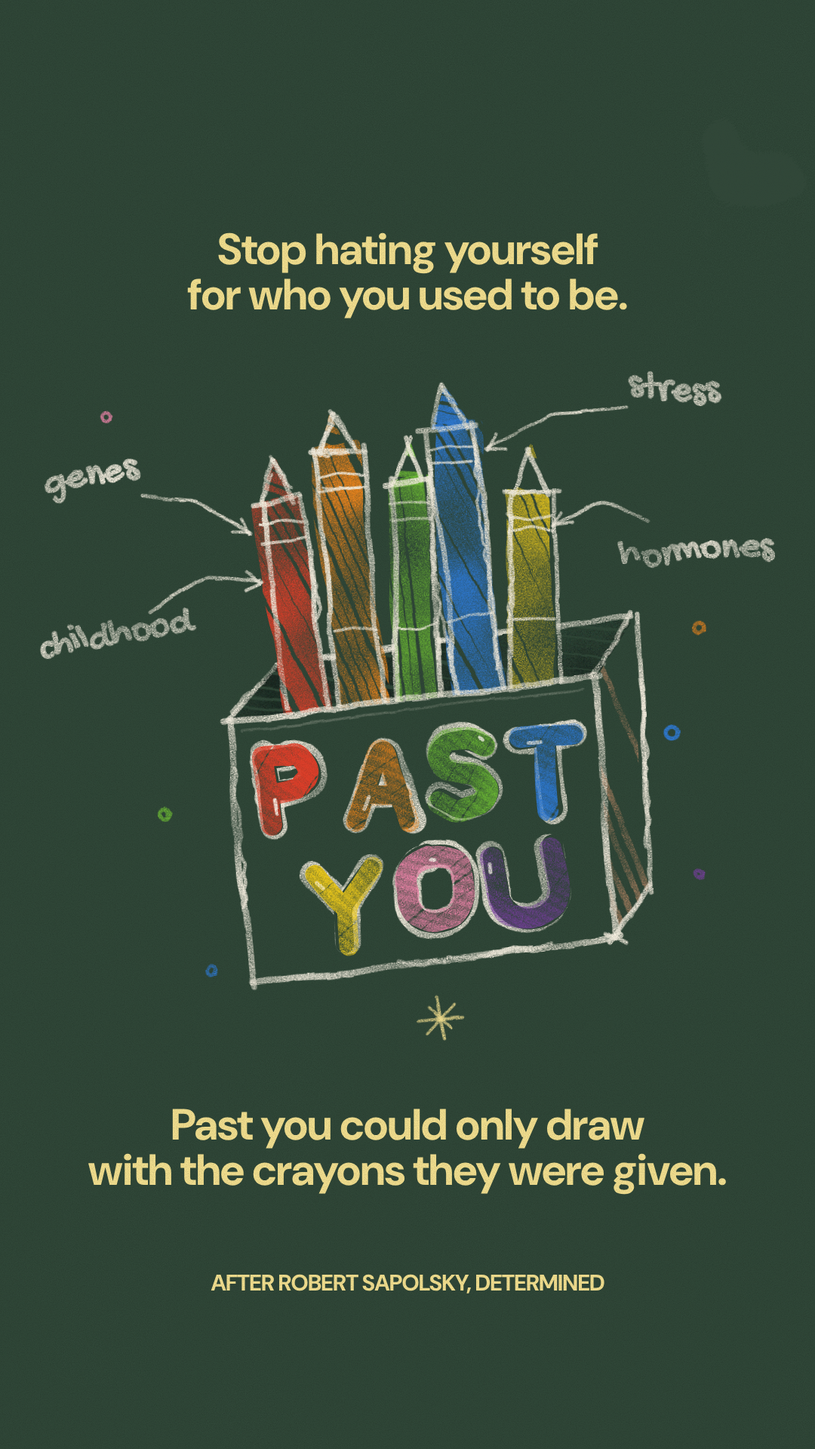
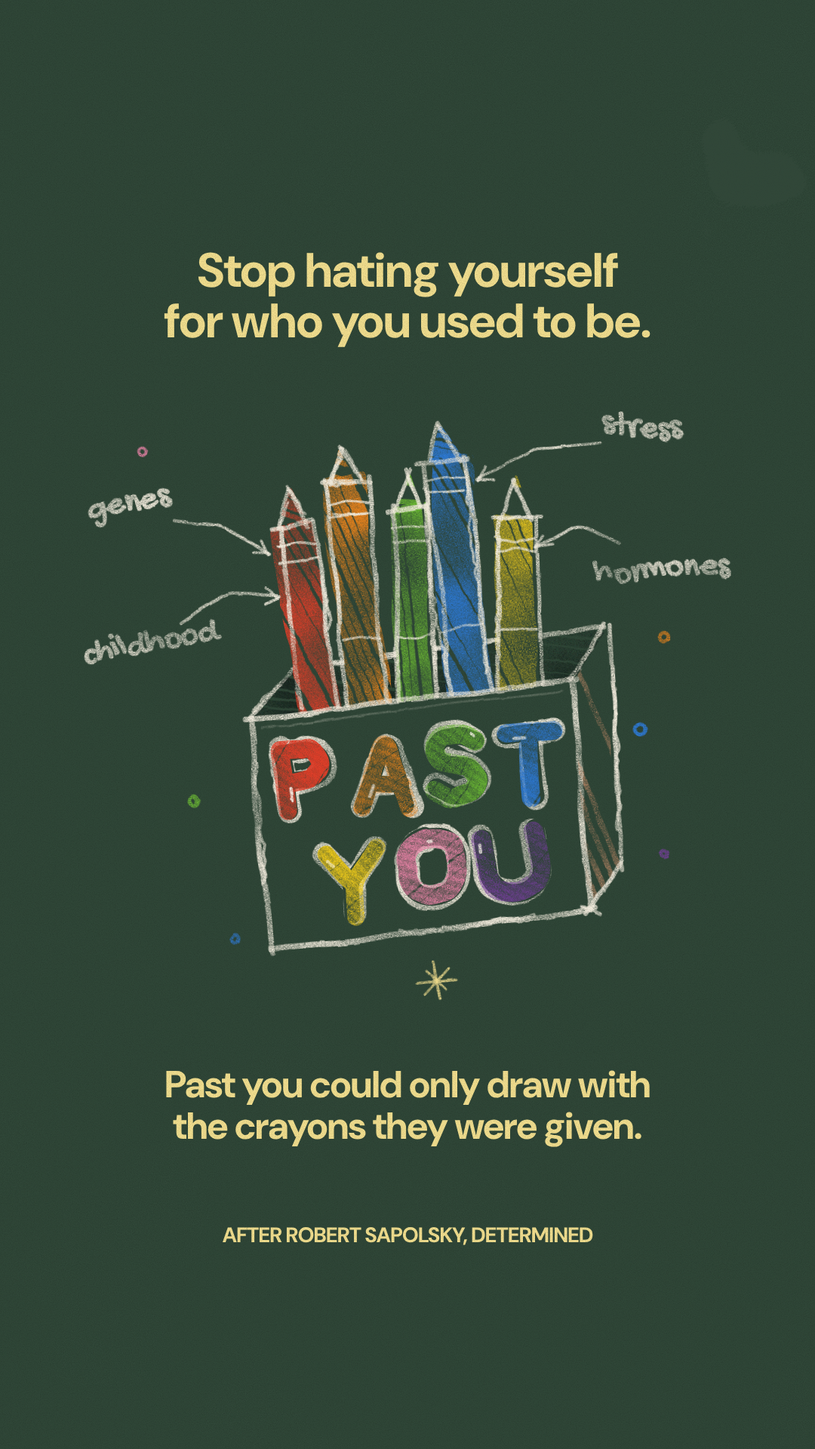
Past-you story: rebalance composition
Headline larger than the explanation, matching line widths, illustration
scaled to the text column with even gaps above and below.

Claude-Session: https://claude.ai/code/session_018jP4U1xgLMT91eSVQ4CkUE

diff --git a/story/past-you/variants/butter.html b/story/past-you/variants/butter.html
@@ -11,10 +11,11 @@
   .story { position: relative; width: 1080px; height: 1920px; overflow: hidden; background: #f0d25e; color: #4a2357;
            font-family: "DM Sans", sans-serif; font-weight: 700; letter-spacing: -0.045em; text-align: center; }
   .story svg { position: absolute; inset: 0; }
-  .line { position: absolute; left: 0; right: 0; font-size: 58px; line-height: 1.04; }
-  .top { top: 300px; }
-  .bottom { top: 1460px; }
-  .label { position: absolute; left: 0; right: 0; top: 1680px; font-size: 30px; letter-spacing: -0.04em; text-transform: uppercase; }
+  /* composition: one centred column, ~112px side margins, even gaps */
+  .line { position: absolute; left: 0; right: 0; }
+  .top { top: 326px; font-size: 64px; line-height: 1.04; }                 /* the hook: largest */
+  .bottom { top: 1410px; font-size: 50px; line-height: 1.1; }             /* the explanation */
+  .label { position: absolute; left: 0; right: 0; top: 1618px; font-size: 28px; letter-spacing: -0.04em; text-transform: uppercase; }
 </style>
 </head>
 <body>
@@ -54,6 +55,7 @@
         <feMerge><feMergeNode in="blotSoft"/><feMergeNode in="darkSpecks"/></feMerge>
       </filter>
     </defs>
+    <g transform="translate(540 934) scale(0.88) translate(-540 -934)">
     <g transform="rotate(-5 545 940)">
 <clipPath id="butter-c0"><path d="M300.5,933.3 Q300.5,933.3 308.2,933.1 Q315.9,932.9 323.9,932.7 Q332.0,932.5 338.6,932.2 Q345.3,931.9 353.1,931.4 Q360.8,931.0 367.7,930.8 Q374.6,930.5 382.6,929.2 Q390.5,927.9 398.0,927.8 Q405.4,927.6 412.4,927.1 Q419.5,926.7 427.3,925.5 Q435.1,924.2 443.0,923.0 Q450.9,921.8 459.7,921.7 Q468.6,921.6 476.4,920.7 Q484.1,919.9 492.3,920.2 Q500.4,920.6 509.1,921.3 Q517.7,922.0 525.9,922.5 Q534.0,923.0 543.1,923.5 Q552.1,924.0 561.0,924.9 Q570.0,925.9 577.9,926.1 Q585.9,926.2 593.5,926.0 Q601.2,925.8 608.8,926.4 Q616.5,927.0 625.4,926.6 Q634.4,926.3 642.6,925.8 Q650.8,925.4 660.1,925.8 Q669.5,926.1 678.2,926.6 Q686.9,927.1 694.0,927.0 Q701.1,927.0 709.7,927.5 Q718.2,928.1 727.3,928.1 Q736.3,928.1 744.4,927.6 Q752.5,927.0 760.8,927.0 Q769.1,927.0 776.1,926.9 Q783.1,926.8 790.0,927.3 Q796.8,927.8 801.6,922.3 Q806.5,916.9 810.8,911.3 Q815.2,905.7 819.2,898.4 Q823.3,891.0 827.8,882.3 Q832.4,873.7 837.2,866.2 Q841.9,858.6 846.3,850.6 Q850.6,842.5 843.2,843.0 Q835.8,843.4 827.2,843.1 Q818.7,842.9 810.6,842.8 Q802.6,842.7 794.4,842.5 Q786.2,842.4 777.8,843.2 Q769.4,844.1 760.2,844.5 Q751.0,844.8 743.1,845.2 Q735.2,845.6 726.8,846.6 Q718.3,847.6 710.7,847.9 Q703.0,848.2 694.9,849.8 Q686.8,851.5 680.6,851.7 Q674.3,852.0 667.1,853.0 Q659.9,854.0 650.8,853.7 Q641.8,853.5 634.1,853.6 Q626.4,853.6 619.2,853.6 Q612.0,853.6 605.3,852.7 Q598.6,851.8 590.3,852.0 Q582.0,852.3 575.4,851.4 Q568.9,850.6 560.5,850.5 Q552.2,850.5 543.8,851.6 Q535.5,852.8 526.4,854.6 Q517.3,856.4 509.5,856.4 Q501.7,856.5 494.1,857.4 Q486.4,858.3 477.0,858.7 Q467.5,859.0 459.3,859.5 Q451.1,860.0 444.2,860.7 Q437.3,861.4 429.9,861.9 Q422.6,862.5 414.7,862.2 Q406.7,862.0 399.3,863.1 Q391.9,864.2 383.6,864.3 Q375.3,864.5 375.3,864.5 L375.3,864.5Z"/></clipPath>
 <g clip-path="url(#butter-c0)"><path d="M340.2,527.7 L960.8,663.6 L949.2,667.7 L335.2,537.3 L319.8,542.1 L935.1,674.8 L918.9,683.9 L361.6,564.8 L323.7,558.7 L909.8,690.9 L951.3,711.7 L343.0,577.0 L356.6,587.5 L941.9,718.8 L935.4,724.7 L344.1,600.4 L302.3,596.6 L948.9,732.9 L921.1,737.7 L292.9,602.3 L311.7,617.4 L895.7,747.1 L915.0,757.4 L308.8,630.6 L291.7,638.6 L925.5,771.8 L921.3,787.7 L335.0,656.8 L338.3,670.7 L889.4,786.6 L934.4,800.2 L288.2,668.4 L296.2,672.6 L926.1,812.4 L934.2,844.9 L300.0,711.3 L313.9,724.6 L906.6,851.4 L875.7,862.9 L308.1,736.2 L306.2,748.0 L868.6,876.0 L876.9,878.9 L294.3,759.2 L268.1,766.6 L909.5,899.1 L866.8,900.6 L301.0,783.8 L296.9,787.5 L915.2,925.9 L865.7,919.2 L269.3,795.5 L299.5,812.7 L886.5,935.6 L903.3,958.1 L263.0,816.4 L291.4,832.9 L878.6,957.3 L853.2,966.2 L276.9,838.8 L297.5,852.6 L878.2,976.9 L846.0,986.9 L243.4,855.5 L292.7,874.8 L857.2,1000.3 L886.5,1014.1 L269.9,884.7 L278.8,900.2 L882.4,1030.2 L881.7,1041.8 L282.2,914.9 L236.5,914.5 L845.4,1045.1 L847.0,1084.4 L266.6,964.6 L227.5,965.0 L851.1,1102.4 L868.2,1108.6 L273.8,981.6 L237.1,985.8 L878.9,1121.5 L860.5,1129.6 L228.1,997.5 L262.8,1017.0 L828.3,1131.5 L845.3,1158.7 L228.4,1021.6 L254.5,1036.9 L862.5,1167.3 L828.3,1188.8 L207.9,1055.9 L199.2,1072.0 L836.2,1207.3 L801.5,1204.9 L234.9,1087.6 L196.3,1083.0 L818.4,1218.4 L803.3,1226.9 L232.7,1105.5 L229.9,1111.3 L816.5,1239.1 L839.7,1253.4 L237.7,1125.7" fill="none" stroke="#3b2a55" stroke-width="10" stroke-linejoin="round" opacity="0.92" filter="url(#wax)"/></g>
@@ -170,8 +172,9 @@
 <path d="M545.2,1322.7 Q545.4,1325.3 546.2,1333.9 Q546.9,1342.4 547.7,1351.2 Q548.5,1359.9 549.7,1368.7 Q550.8,1377.5 550.9,1377.9 L550.9,1378.2" fill="none" stroke="#2f7fd8" stroke-width="4.4" stroke-linecap="round" stroke-linejoin="round" opacity="1" filter="url(#crayon)"/>
 <path d="M568.1,1334.0 Q566.2,1335.8 560.3,1341.3 Q554.4,1346.8 548.5,1352.3 Q542.6,1357.8 536.5,1363.2 Q530.4,1368.6 529.5,1369.4 L528.5,1370.3" fill="none" stroke="#2f7fd8" stroke-width="3.6" stroke-linecap="round" stroke-linejoin="round" opacity="1" filter="url(#crayon)"/>
     </g>
+    </g>
   </svg>
-  <div class="line bottom">Past you could only draw<br>with the crayons they were given.</div>
+  <div class="line bottom">Past you could only draw with<br>the crayons they were given.</div>
   <div class="label">After Robert Sapolsky, Determined</div>
   <svg width="1080" height="1920" style="pointer-events:none" aria-hidden="true"><rect width="1080" height="1920" filter="url(#paper)"/></svg>
 </div>

diff --git a/story/past-you/variants/forest.html b/story/past-you/variants/forest.html
@@ -11,10 +11,11 @@
   .story { position: relative; width: 1080px; height: 1920px; overflow: hidden; background: #2f4637; color: #f1de8e;
            font-family: "DM Sans", sans-serif; font-weight: 700; letter-spacing: -0.045em; text-align: center; }
   .story svg { position: absolute; inset: 0; }
-  .line { position: absolute; left: 0; right: 0; font-size: 58px; line-height: 1.04; }
-  .top { top: 300px; }
-  .bottom { top: 1460px; }
-  .label { position: absolute; left: 0; right: 0; top: 1680px; font-size: 30px; letter-spacing: -0.04em; text-transform: uppercase; }
+  /* composition: one centred column, ~112px side margins, even gaps */
+  .line { position: absolute; left: 0; right: 0; }
+  .top { top: 326px; font-size: 64px; line-height: 1.04; }                 /* the hook: largest */
+  .bottom { top: 1410px; font-size: 50px; line-height: 1.1; }             /* the explanation */
+  .label { position: absolute; left: 0; right: 0; top: 1618px; font-size: 28px; letter-spacing: -0.04em; text-transform: uppercase; }
 </style>
 </head>
 <body>
@@ -54,6 +55,7 @@
         <feMerge><feMergeNode in="blotSoft"/><feMergeNode in="darkSpecks"/></feMerge>
       </filter>
     </defs>
+    <g transform="translate(540 934) scale(0.88) translate(-540 -934)">
     <g transform="rotate(-5 545 940)">
 <clipPath id="forest-c0"><path d="M300.5,933.3 Q300.5,933.3 308.2,933.1 Q315.9,932.9 323.9,932.7 Q332.0,932.5 338.6,932.2 Q345.3,931.9 353.1,931.4 Q360.8,931.0 367.7,930.8 Q374.6,930.5 382.6,929.2 Q390.5,927.9 398.0,927.8 Q405.4,927.6 412.4,927.1 Q419.5,926.7 427.3,925.5 Q435.1,924.2 443.0,923.0 Q450.9,921.8 459.7,921.7 Q468.6,921.6 476.4,920.7 Q484.1,919.9 492.3,920.2 Q500.4,920.6 509.1,921.3 Q517.7,922.0 525.9,922.5 Q534.0,923.0 543.1,923.5 Q552.1,924.0 561.0,924.9 Q570.0,925.9 577.9,926.1 Q585.9,926.2 593.5,926.0 Q601.2,925.8 608.8,926.4 Q616.5,927.0 625.4,926.6 Q634.4,926.3 642.6,925.8 Q650.8,925.4 660.1,925.8 Q669.5,926.1 678.2,926.6 Q686.9,927.1 694.0,927.0 Q701.1,927.0 709.7,927.5 Q718.2,928.1 727.3,928.1 Q736.3,928.1 744.4,927.6 Q752.5,927.0 760.8,927.0 Q769.1,927.0 776.1,926.9 Q783.1,926.8 790.0,927.3 Q796.8,927.8 801.6,922.3 Q806.5,916.9 810.8,911.3 Q815.2,905.7 819.2,898.4 Q823.3,891.0 827.8,882.3 Q832.4,873.7 837.2,866.2 Q841.9,858.6 846.3,850.6 Q850.6,842.5 843.2,843.0 Q835.8,843.4 827.2,843.1 Q818.7,842.9 810.6,842.8 Q802.6,842.7 794.4,842.5 Q786.2,842.4 777.8,843.2 Q769.4,844.1 760.2,844.5 Q751.0,844.8 743.1,845.2 Q735.2,845.6 726.8,846.6 Q718.3,847.6 710.7,847.9 Q703.0,848.2 694.9,849.8 Q686.8,851.5 680.6,851.7 Q674.3,852.0 667.1,853.0 Q659.9,854.0 650.8,853.7 Q641.8,853.5 634.1,853.6 Q626.4,853.6 619.2,853.6 Q612.0,853.6 605.3,852.7 Q598.6,851.8 590.3,852.0 Q582.0,852.3 575.4,851.4 Q568.9,850.6 560.5,850.5 Q552.2,850.5 543.8,851.6 Q535.5,852.8 526.4,854.6 Q517.3,856.4 509.5,856.4 Q501.7,856.5 494.1,857.4 Q486.4,858.3 477.0,858.7 Q467.5,859.0 459.3,859.5 Q451.1,860.0 444.2,860.7 Q437.3,861.4 429.9,861.9 Q422.6,862.5 414.7,862.2 Q406.7,862.0 399.3,863.1 Q391.9,864.2 383.6,864.3 Q375.3,864.5 375.3,864.5 L375.3,864.5Z"/></clipPath>
 <g clip-path="url(#forest-c0)"><path d="M340.2,527.7 L960.8,663.6 L949.2,667.7 L335.2,537.3 L319.8,542.1 L935.1,674.8 L918.9,683.9 L361.6,564.8 L323.7,558.7 L909.8,690.9 L951.3,711.7 L343.0,577.0 L356.6,587.5 L941.9,718.8 L935.4,724.7 L344.1,600.4 L302.3,596.6 L948.9,732.9 L921.1,737.7 L292.9,602.3 L311.7,617.4 L895.7,747.1 L915.0,757.4 L308.8,630.6 L291.7,638.6 L925.5,771.8 L921.3,787.7 L335.0,656.8 L338.3,670.7 L889.4,786.6 L934.4,800.2 L288.2,668.4 L296.2,672.6 L926.1,812.4 L934.2,844.9 L300.0,711.3 L313.9,724.6 L906.6,851.4 L875.7,862.9 L308.1,736.2 L306.2,748.0 L868.6,876.0 L876.9,878.9 L294.3,759.2 L268.1,766.6 L909.5,899.1 L866.8,900.6 L301.0,783.8 L296.9,787.5 L915.2,925.9 L865.7,919.2 L269.3,795.5 L299.5,812.7 L886.5,935.6 L903.3,958.1 L263.0,816.4 L291.4,832.9 L878.6,957.3 L853.2,966.2 L276.9,838.8 L297.5,852.6 L878.2,976.9 L846.0,986.9 L243.4,855.5 L292.7,874.8 L857.2,1000.3 L886.5,1014.1 L269.9,884.7 L278.8,900.2 L882.4,1030.2 L881.7,1041.8 L282.2,914.9 L236.5,914.5 L845.4,1045.1 L847.0,1084.4 L266.6,964.6 L227.5,965.0 L851.1,1102.4 L868.2,1108.6 L273.8,981.6 L237.1,985.8 L878.9,1121.5 L860.5,1129.6 L228.1,997.5 L262.8,1017.0 L828.3,1131.5 L845.3,1158.7 L228.4,1021.6 L254.5,1036.9 L862.5,1167.3 L828.3,1188.8 L207.9,1055.9 L199.2,1072.0 L836.2,1207.3 L801.5,1204.9 L234.9,1087.6 L196.3,1083.0 L818.4,1218.4 L803.3,1226.9 L232.7,1105.5 L229.9,1111.3 L816.5,1239.1 L839.7,1253.4 L237.7,1125.7" fill="none" stroke="#16241b" stroke-width="10" stroke-linejoin="round" opacity="0.92" filter="url(#wax)"/></g>
@@ -170,8 +172,9 @@
 <path d="M545.2,1322.7 Q545.4,1325.3 546.2,1333.9 Q546.9,1342.4 547.7,1351.2 Q548.5,1359.9 549.7,1368.7 Q550.8,1377.5 550.9,1377.9 L550.9,1378.2" fill="none" stroke="#f1de8e" stroke-width="4.4" stroke-linecap="round" stroke-linejoin="round" opacity="1" filter="url(#crayon)"/>
 <path d="M568.1,1334.0 Q566.2,1335.8 560.3,1341.3 Q554.4,1346.8 548.5,1352.3 Q542.6,1357.8 536.5,1363.2 Q530.4,1368.6 529.5,1369.4 L528.5,1370.3" fill="none" stroke="#f1de8e" stroke-width="3.6" stroke-linecap="round" stroke-linejoin="round" opacity="1" filter="url(#crayon)"/>
     </g>
+    </g>
   </svg>
-  <div class="line bottom">Past you could only draw<br>with the crayons they were given.</div>
+  <div class="line bottom">Past you could only draw with<br>the crayons they were given.</div>
   <div class="label">After Robert Sapolsky, Determined</div>
   <svg width="1080" height="1920" style="pointer-events:none" aria-hidden="true"><rect width="1080" height="1920" filter="url(#paper)"/></svg>
 </div>

diff --git a/story/past-you/variants/tomato.html b/story/past-you/variants/tomato.html
@@ -11,10 +11,11 @@
   .story { position: relative; width: 1080px; height: 1920px; overflow: hidden; background: #d9533a; color: #ffe6c6;
            font-family: "DM Sans", sans-serif; font-weight: 700; letter-spacing: -0.045em; text-align: center; }
   .story svg { position: absolute; inset: 0; }
-  .line { position: absolute; left: 0; right: 0; font-size: 58px; line-height: 1.04; }
-  .top { top: 300px; }
-  .bottom { top: 1460px; }
-  .label { position: absolute; left: 0; right: 0; top: 1680px; font-size: 30px; letter-spacing: -0.04em; text-transform: uppercase; }
+  /* composition: one centred column, ~112px side margins, even gaps */
+  .line { position: absolute; left: 0; right: 0; }
+  .top { top: 326px; font-size: 64px; line-height: 1.04; }                 /* the hook: largest */
+  .bottom { top: 1410px; font-size: 50px; line-height: 1.1; }             /* the explanation */
+  .label { position: absolute; left: 0; right: 0; top: 1618px; font-size: 28px; letter-spacing: -0.04em; text-transform: uppercase; }
 </style>
 </head>
 <body>
@@ -54,6 +55,7 @@
         <feMerge><feMergeNode in="blotSoft"/><feMergeNode in="darkSpecks"/></feMerge>
       </filter>
     </defs>
+    <g transform="translate(540 934) scale(0.88) translate(-540 -934)">
     <g transform="rotate(-5 545 940)">
 <clipPath id="tomato-c0"><path d="M300.5,933.3 Q300.5,933.3 308.2,933.1 Q315.9,932.9 323.9,932.7 Q332.0,932.5 338.6,932.2 Q345.3,931.9 353.1,931.4 Q360.8,931.0 367.7,930.8 Q374.6,930.5 382.6,929.2 Q390.5,927.9 398.0,927.8 Q405.4,927.6 412.4,927.1 Q419.5,926.7 427.3,925.5 Q435.1,924.2 443.0,923.0 Q450.9,921.8 459.7,921.7 Q468.6,921.6 476.4,920.7 Q484.1,919.9 492.3,920.2 Q500.4,920.6 509.1,921.3 Q517.7,922.0 525.9,922.5 Q534.0,923.0 543.1,923.5 Q552.1,924.0 561.0,924.9 Q570.0,925.9 577.9,926.1 Q585.9,926.2 593.5,926.0 Q601.2,925.8 608.8,926.4 Q616.5,927.0 625.4,926.6 Q634.4,926.3 642.6,925.8 Q650.8,925.4 660.1,925.8 Q669.5,926.1 678.2,926.6 Q686.9,927.1 694.0,927.0 Q701.1,927.0 709.7,927.5 Q718.2,928.1 727.3,928.1 Q736.3,928.1 744.4,927.6 Q752.5,927.0 760.8,927.0 Q769.1,927.0 776.1,926.9 Q783.1,926.8 790.0,927.3 Q796.8,927.8 801.6,922.3 Q806.5,916.9 810.8,911.3 Q815.2,905.7 819.2,898.4 Q823.3,891.0 827.8,882.3 Q832.4,873.7 837.2,866.2 Q841.9,858.6 846.3,850.6 Q850.6,842.5 843.2,843.0 Q835.8,843.4 827.2,843.1 Q818.7,842.9 810.6,842.8 Q802.6,842.7 794.4,842.5 Q786.2,842.4 777.8,843.2 Q769.4,844.1 760.2,844.5 Q751.0,844.8 743.1,845.2 Q735.2,845.6 726.8,846.6 Q718.3,847.6 710.7,847.9 Q703.0,848.2 694.9,849.8 Q686.8,851.5 680.6,851.7 Q674.3,852.0 667.1,853.0 Q659.9,854.0 650.8,853.7 Q641.8,853.5 634.1,853.6 Q626.4,853.6 619.2,853.6 Q612.0,853.6 605.3,852.7 Q598.6,851.8 590.3,852.0 Q582.0,852.3 575.4,851.4 Q568.9,850.6 560.5,850.5 Q552.2,850.5 543.8,851.6 Q535.5,852.8 526.4,854.6 Q517.3,856.4 509.5,856.4 Q501.7,856.5 494.1,857.4 Q486.4,858.3 477.0,858.7 Q467.5,859.0 459.3,859.5 Q451.1,860.0 444.2,860.7 Q437.3,861.4 429.9,861.9 Q422.6,862.5 414.7,862.2 Q406.7,862.0 399.3,863.1 Q391.9,864.2 383.6,864.3 Q375.3,864.5 375.3,864.5 L375.3,864.5Z"/></clipPath>
 <g clip-path="url(#tomato-c0)"><path d="M340.2,527.7 L960.8,663.6 L949.2,667.7 L335.2,537.3 L319.8,542.1 L935.1,674.8 L918.9,683.9 L361.6,564.8 L323.7,558.7 L909.8,690.9 L951.3,711.7 L343.0,577.0 L356.6,587.5 L941.9,718.8 L935.4,724.7 L344.1,600.4 L302.3,596.6 L948.9,732.9 L921.1,737.7 L292.9,602.3 L311.7,617.4 L895.7,747.1 L915.0,757.4 L308.8,630.6 L291.7,638.6 L925.5,771.8 L921.3,787.7 L335.0,656.8 L338.3,670.7 L889.4,786.6 L934.4,800.2 L288.2,668.4 L296.2,672.6 L926.1,812.4 L934.2,844.9 L300.0,711.3 L313.9,724.6 L906.6,851.4 L875.7,862.9 L308.1,736.2 L306.2,748.0 L868.6,876.0 L876.9,878.9 L294.3,759.2 L268.1,766.6 L909.5,899.1 L866.8,900.6 L301.0,783.8 L296.9,787.5 L915.2,925.9 L865.7,919.2 L269.3,795.5 L299.5,812.7 L886.5,935.6 L903.3,958.1 L263.0,816.4 L291.4,832.9 L878.6,957.3 L853.2,966.2 L276.9,838.8 L297.5,852.6 L878.2,976.9 L846.0,986.9 L243.4,855.5 L292.7,874.8 L857.2,1000.3 L886.5,1014.1 L269.9,884.7 L278.8,900.2 L882.4,1030.2 L881.7,1041.8 L282.2,914.9 L236.5,914.5 L845.4,1045.1 L847.0,1084.4 L266.6,964.6 L227.5,965.0 L851.1,1102.4 L868.2,1108.6 L273.8,981.6 L237.1,985.8 L878.9,1121.5 L860.5,1129.6 L228.1,997.5 L262.8,1017.0 L828.3,1131.5 L845.3,1158.7 L228.4,1021.6 L254.5,1036.9 L862.5,1167.3 L828.3,1188.8 L207.9,1055.9 L199.2,1072.0 L836.2,1207.3 L801.5,1204.9 L234.9,1087.6 L196.3,1083.0 L818.4,1218.4 L803.3,1226.9 L232.7,1105.5 L229.9,1111.3 L816.5,1239.1 L839.7,1253.4 L237.7,1125.7" fill="none" stroke="#5b1c22" stroke-width="10" stroke-linejoin="round" opacity="0.92" filter="url(#wax)"/></g>
@@ -170,8 +172,9 @@
 <path d="M545.2,1322.7 Q545.4,1325.3 546.2,1333.9 Q546.9,1342.4 547.7,1351.2 Q548.5,1359.9 549.7,1368.7 Q550.8,1377.5 550.9,1377.9 L550.9,1378.2" fill="none" stroke="#ffe6c6" stroke-width="4.4" stroke-linecap="round" stroke-linejoin="round" opacity="1" filter="url(#crayon)"/>
 <path d="M568.1,1334.0 Q566.2,1335.8 560.3,1341.3 Q554.4,1346.8 548.5,1352.3 Q542.6,1357.8 536.5,1363.2 Q530.4,1368.6 529.5,1369.4 L528.5,1370.3" fill="none" stroke="#ffe6c6" stroke-width="3.6" stroke-linecap="round" stroke-linejoin="round" opacity="1" filter="url(#crayon)"/>
     </g>
+    </g>
   </svg>
-  <div class="line bottom">Past you could only draw<br>with the crayons they were given.</div>
+  <div class="line bottom">Past you could only draw with<br>the crayons they were given.</div>
   <div class="label">After Robert Sapolsky, Determined</div>
   <svg width="1080" height="1920" style="pointer-events:none" aria-hidden="true"><rect width="1080" height="1920" filter="url(#paper)"/></svg>
 </div>

diff --git a/story/past-you/story.html b/story/past-you/story.html
@@ -11,10 +11,11 @@
   .story { position: relative; width: 1080px; height: 1920px; overflow: hidden; background: #ece3cf; color: #2c3a8f;
            font-family: "DM Sans", sans-serif; font-weight: 700; letter-spacing: -0.045em; text-align: center; }
   .story svg { position: absolute; inset: 0; }
-  .line { position: absolute; left: 0; right: 0; font-size: 58px; line-height: 1.04; }
-  .top { top: 300px; }
-  .bottom { top: 1460px; }
-  .label { position: absolute; left: 0; right: 0; top: 1680px; font-size: 30px; letter-spacing: -0.04em; text-transform: uppercase; }
+  /* composition: one centred column, ~112px side margins, even gaps */
+  .line { position: absolute; left: 0; right: 0; }
+  .top { top: 326px; font-size: 64px; line-height: 1.04; }                 /* the hook: largest */
+  .bottom { top: 1410px; font-size: 50px; line-height: 1.1; }             /* the explanation */
+  .label { position: absolute; left: 0; right: 0; top: 1618px; font-size: 28px; letter-spacing: -0.04em; text-transform: uppercase; }
 </style>
 </head>
 <body>
@@ -54,6 +55,7 @@
         <feMerge><feMergeNode in="blotSoft"/><feMergeNode in="darkSpecks"/></feMerge>
       </filter>
     </defs>
+    <g transform="translate(540 934) scale(0.88) translate(-540 -934)">
     <g transform="rotate(-5 545 940)">
 <clipPath id="paper-c0"><path d="M300.5,933.3 Q300.5,933.3 308.2,933.1 Q315.9,932.9 323.9,932.7 Q332.0,932.5 338.6,932.2 Q345.3,931.9 353.1,931.4 Q360.8,931.0 367.7,930.8 Q374.6,930.5 382.6,929.2 Q390.5,927.9 398.0,927.8 Q405.4,927.6 412.4,927.1 Q419.5,926.7 427.3,925.5 Q435.1,924.2 443.0,923.0 Q450.9,921.8 459.7,921.7 Q468.6,921.6 476.4,920.7 Q484.1,919.9 492.3,920.2 Q500.4,920.6 509.1,921.3 Q517.7,922.0 525.9,922.5 Q534.0,923.0 543.1,923.5 Q552.1,924.0 561.0,924.9 Q570.0,925.9 577.9,926.1 Q585.9,926.2 593.5,926.0 Q601.2,925.8 608.8,926.4 Q616.5,927.0 625.4,926.6 Q634.4,926.3 642.6,925.8 Q650.8,925.4 660.1,925.8 Q669.5,926.1 678.2,926.6 Q686.9,927.1 694.0,927.0 Q701.1,927.0 709.7,927.5 Q718.2,928.1 727.3,928.1 Q736.3,928.1 744.4,927.6 Q752.5,927.0 760.8,927.0 Q769.1,927.0 776.1,926.9 Q783.1,926.8 790.0,927.3 Q796.8,927.8 801.6,922.3 Q806.5,916.9 810.8,911.3 Q815.2,905.7 819.2,898.4 Q823.3,891.0 827.8,882.3 Q832.4,873.7 837.2,866.2 Q841.9,858.6 846.3,850.6 Q850.6,842.5 843.2,843.0 Q835.8,843.4 827.2,843.1 Q818.7,842.9 810.6,842.8 Q802.6,842.7 794.4,842.5 Q786.2,842.4 777.8,843.2 Q769.4,844.1 760.2,844.5 Q751.0,844.8 743.1,845.2 Q735.2,845.6 726.8,846.6 Q718.3,847.6 710.7,847.9 Q703.0,848.2 694.9,849.8 Q686.8,851.5 680.6,851.7 Q674.3,852.0 667.1,853.0 Q659.9,854.0 650.8,853.7 Q641.8,853.5 634.1,853.6 Q626.4,853.6 619.2,853.6 Q612.0,853.6 605.3,852.7 Q598.6,851.8 590.3,852.0 Q582.0,852.3 575.4,851.4 Q568.9,850.6 560.5,850.5 Q552.2,850.5 543.8,851.6 Q535.5,852.8 526.4,854.6 Q517.3,856.4 509.5,856.4 Q501.7,856.5 494.1,857.4 Q486.4,858.3 477.0,858.7 Q467.5,859.0 459.3,859.5 Q451.1,860.0 444.2,860.7 Q437.3,861.4 429.9,861.9 Q422.6,862.5 414.7,862.2 Q406.7,862.0 399.3,863.1 Q391.9,864.2 383.6,864.3 Q375.3,864.5 375.3,864.5 L375.3,864.5Z"/></clipPath>
 <g clip-path="url(#paper-c0)"><path d="M340.2,527.7 L960.8,663.6 L949.2,667.7 L335.2,537.3 L319.8,542.1 L935.1,674.8 L918.9,683.9 L361.6,564.8 L323.7,558.7 L909.8,690.9 L951.3,711.7 L343.0,577.0 L356.6,587.5 L941.9,718.8 L935.4,724.7 L344.1,600.4 L302.3,596.6 L948.9,732.9 L921.1,737.7 L292.9,602.3 L311.7,617.4 L895.7,747.1 L915.0,757.4 L308.8,630.6 L291.7,638.6 L925.5,771.8 L921.3,787.7 L335.0,656.8 L338.3,670.7 L889.4,786.6 L934.4,800.2 L288.2,668.4 L296.2,672.6 L926.1,812.4 L934.2,844.9 L300.0,711.3 L313.9,724.6 L906.6,851.4 L875.7,862.9 L308.1,736.2 L306.2,748.0 L868.6,876.0 L876.9,878.9 L294.3,759.2 L268.1,766.6 L909.5,899.1 L866.8,900.6 L301.0,783.8 L296.9,787.5 L915.2,925.9 L865.7,919.2 L269.3,795.5 L299.5,812.7 L886.5,935.6 L903.3,958.1 L263.0,816.4 L291.4,832.9 L878.6,957.3 L853.2,966.2 L276.9,838.8 L297.5,852.6 L878.2,976.9 L846.0,986.9 L243.4,855.5 L292.7,874.8 L857.2,1000.3 L886.5,1014.1 L269.9,884.7 L278.8,900.2 L882.4,1030.2 L881.7,1041.8 L282.2,914.9 L236.5,914.5 L845.4,1045.1 L847.0,1084.4 L266.6,964.6 L227.5,965.0 L851.1,1102.4 L868.2,1108.6 L273.8,981.6 L237.1,985.8 L878.9,1121.5 L860.5,1129.6 L228.1,997.5 L262.8,1017.0 L828.3,1131.5 L845.3,1158.7 L228.4,1021.6 L254.5,1036.9 L862.5,1167.3 L828.3,1188.8 L207.9,1055.9 L199.2,1072.0 L836.2,1207.3 L801.5,1204.9 L234.9,1087.6 L196.3,1083.0 L818.4,1218.4 L803.3,1226.9 L232.7,1105.5 L229.9,1111.3 L816.5,1239.1 L839.7,1253.4 L237.7,1125.7" fill="none" stroke="#3a3150" stroke-width="10" stroke-linejoin="round" opacity="0.92" filter="url(#wax)"/></g>
@@ -170,8 +172,9 @@
 <path d="M545.2,1322.7 Q545.4,1325.3 546.2,1333.9 Q546.9,1342.4 547.7,1351.2 Q548.5,1359.9 549.7,1368.7 Q550.8,1377.5 550.9,1377.9 L550.9,1378.2" fill="none" stroke="#2f7fd8" stroke-width="4.4" stroke-linecap="round" stroke-linejoin="round" opacity="1" filter="url(#crayon)"/>
 <path d="M568.1,1334.0 Q566.2,1335.8 560.3,1341.3 Q554.4,1346.8 548.5,1352.3 Q542.6,1357.8 536.5,1363.2 Q530.4,1368.6 529.5,1369.4 L528.5,1370.3" fill="none" stroke="#2f7fd8" stroke-width="3.6" stroke-linecap="round" stroke-linejoin="round" opacity="1" filter="url(#crayon)"/>
     </g>
+    </g>
   </svg>
-  <div class="line bottom">Past you could only draw<br>with the crayons they were given.</div>
+  <div class="line bottom">Past you could only draw with<br>the crayons they were given.</div>
   <div class="label">After Robert Sapolsky, Determined</div>
   <svg width="1080" height="1920" style="pointer-events:none" aria-hidden="true"><rect width="1080" height="1920" filter="url(#paper)"/></svg>
 </div>

diff --git a/story/past-you/variants/blush.html b/story/past-you/variants/blush.html
@@ -11,10 +11,11 @@
   .story { position: relative; width: 1080px; height: 1920px; overflow: hidden; background: #e8aebb; color: #6e1a2e;
            font-family: "DM Sans", sans-serif; font-weight: 700; letter-spacing: -0.045em; text-align: center; }
   .story svg { position: absolute; inset: 0; }
-  .line { position: absolute; left: 0; right: 0; font-size: 58px; line-height: 1.04; }
-  .top { top: 300px; }
-  .bottom { top: 1460px; }
-  .label { position: absolute; left: 0; right: 0; top: 1680px; font-size: 30px; letter-spacing: -0.04em; text-transform: uppercase; }
+  /* composition: one centred column, ~112px side margins, even gaps */
+  .line { position: absolute; left: 0; right: 0; }
+  .top { top: 326px; font-size: 64px; line-height: 1.04; }                 /* the hook: largest */
+  .bottom { top: 1410px; font-size: 50px; line-height: 1.1; }             /* the explanation */
+  .label { position: absolute; left: 0; right: 0; top: 1618px; font-size: 28px; letter-spacing: -0.04em; text-transform: uppercase; }
 </style>
 </head>
 <body>
@@ -54,6 +55,7 @@
         <feMerge><feMergeNode in="blotSoft"/><feMergeNode in="darkSpecks"/></feMerge>
       </filter>
     </defs>
+    <g transform="translate(540 934) scale(0.88) translate(-540 -934)">
     <g transform="rotate(-5 545 940)">
 <clipPath id="blush-c0"><path d="M300.5,933.3 Q300.5,933.3 308.2,933.1 Q315.9,932.9 323.9,932.7 Q332.0,932.5 338.6,932.2 Q345.3,931.9 353.1,931.4 Q360.8,931.0 367.7,930.8 Q374.6,930.5 382.6,929.2 Q390.5,927.9 398.0,927.8 Q405.4,927.6 412.4,927.1 Q419.5,926.7 427.3,925.5 Q435.1,924.2 443.0,923.0 Q450.9,921.8 459.7,921.7 Q468.6,921.6 476.4,920.7 Q484.1,919.9 492.3,920.2 Q500.4,920.6 509.1,921.3 Q517.7,922.0 525.9,922.5 Q534.0,923.0 543.1,923.5 Q552.1,924.0 561.0,924.9 Q570.0,925.9 577.9,926.1 Q585.9,926.2 593.5,926.0 Q601.2,925.8 608.8,926.4 Q616.5,927.0 625.4,926.6 Q634.4,926.3 642.6,925.8 Q650.8,925.4 660.1,925.8 Q669.5,926.1 678.2,926.6 Q686.9,927.1 694.0,927.0 Q701.1,927.0 709.7,927.5 Q718.2,928.1 727.3,928.1 Q736.3,928.1 744.4,927.6 Q752.5,927.0 760.8,927.0 Q769.1,927.0 776.1,926.9 Q783.1,926.8 790.0,927.3 Q796.8,927.8 801.6,922.3 Q806.5,916.9 810.8,911.3 Q815.2,905.7 819.2,898.4 Q823.3,891.0 827.8,882.3 Q832.4,873.7 837.2,866.2 Q841.9,858.6 846.3,850.6 Q850.6,842.5 843.2,843.0 Q835.8,843.4 827.2,843.1 Q818.7,842.9 810.6,842.8 Q802.6,842.7 794.4,842.5 Q786.2,842.4 777.8,843.2 Q769.4,844.1 760.2,844.5 Q751.0,844.8 743.1,845.2 Q735.2,845.6 726.8,846.6 Q718.3,847.6 710.7,847.9 Q703.0,848.2 694.9,849.8 Q686.8,851.5 680.6,851.7 Q674.3,852.0 667.1,853.0 Q659.9,854.0 650.8,853.7 Q641.8,853.5 634.1,853.6 Q626.4,853.6 619.2,853.6 Q612.0,853.6 605.3,852.7 Q598.6,851.8 590.3,852.0 Q582.0,852.3 575.4,851.4 Q568.9,850.6 560.5,850.5 Q552.2,850.5 543.8,851.6 Q535.5,852.8 526.4,854.6 Q517.3,856.4 509.5,856.4 Q501.7,856.5 494.1,857.4 Q486.4,858.3 477.0,858.7 Q467.5,859.0 459.3,859.5 Q451.1,860.0 444.2,860.7 Q437.3,861.4 429.9,861.9 Q422.6,862.5 414.7,862.2 Q406.7,862.0 399.3,863.1 Q391.9,864.2 383.6,864.3 Q375.3,864.5 375.3,864.5 L375.3,864.5Z"/></clipPath>
 <g clip-path="url(#blush-c0)"><path d="M340.2,527.7 L960.8,663.6 L949.2,667.7 L335.2,537.3 L319.8,542.1 L935.1,674.8 L918.9,683.9 L361.6,564.8 L323.7,558.7 L909.8,690.9 L951.3,711.7 L343.0,577.0 L356.6,587.5 L941.9,718.8 L935.4,724.7 L344.1,600.4 L302.3,596.6 L948.9,732.9 L921.1,737.7 L292.9,602.3 L311.7,617.4 L895.7,747.1 L915.0,757.4 L308.8,630.6 L291.7,638.6 L925.5,771.8 L921.3,787.7 L335.0,656.8 L338.3,670.7 L889.4,786.6 L934.4,800.2 L288.2,668.4 L296.2,672.6 L926.1,812.4 L934.2,844.9 L300.0,711.3 L313.9,724.6 L906.6,851.4 L875.7,862.9 L308.1,736.2 L306.2,748.0 L868.6,876.0 L876.9,878.9 L294.3,759.2 L268.1,766.6 L909.5,899.1 L866.8,900.6 L301.0,783.8 L296.9,787.5 L915.2,925.9 L865.7,919.2 L269.3,795.5 L299.5,812.7 L886.5,935.6 L903.3,958.1 L263.0,816.4 L291.4,832.9 L878.6,957.3 L853.2,966.2 L276.9,838.8 L297.5,852.6 L878.2,976.9 L846.0,986.9 L243.4,855.5 L292.7,874.8 L857.2,1000.3 L886.5,1014.1 L269.9,884.7 L278.8,900.2 L882.4,1030.2 L881.7,1041.8 L282.2,914.9 L236.5,914.5 L845.4,1045.1 L847.0,1084.4 L266.6,964.6 L227.5,965.0 L851.1,1102.4 L868.2,1108.6 L273.8,981.6 L237.1,985.8 L878.9,1121.5 L860.5,1129.6 L228.1,997.5 L262.8,1017.0 L828.3,1131.5 L845.3,1158.7 L228.4,1021.6 L254.5,1036.9 L862.5,1167.3 L828.3,1188.8 L207.9,1055.9 L199.2,1072.0 L836.2,1207.3 L801.5,1204.9 L234.9,1087.6 L196.3,1083.0 L818.4,1218.4 L803.3,1226.9 L232.7,1105.5 L229.9,1111.3 L816.5,1239.1 L839.7,1253.4 L237.7,1125.7" fill="none" stroke="#4d1a2b" stroke-width="10" stroke-linejoin="round" opacity="0.92" filter="url(#wax)"/></g>
@@ -170,8 +172,9 @@
 <path d="M545.2,1322.7 Q545.4,1325.3 546.2,1333.9 Q546.9,1342.4 547.7,1351.2 Q548.5,1359.9 549.7,1368.7 Q550.8,1377.5 550.9,1377.9 L550.9,1378.2" fill="none" stroke="#2f7fd8" stroke-width="4.4" stroke-linecap="round" stroke-linejoin="round" opacity="1" filter="url(#crayon)"/>
 <path d="M568.1,1334.0 Q566.2,1335.8 560.3,1341.3 Q554.4,1346.8 548.5,1352.3 Q542.6,1357.8 536.5,1363.2 Q530.4,1368.6 529.5,1369.4 L528.5,1370.3" fill="none" stroke="#2f7fd8" stroke-width="3.6" stroke-linecap="round" stroke-linejoin="round" opacity="1" filter="url(#crayon)"/>
     </g>
+    </g>
   </svg>
-  <div class="line bottom">Past you could only draw<br>with the crayons they were given.</div>
+  <div class="line bottom">Past you could only draw with<br>the crayons they were given.</div>
   <div class="label">After Robert Sapolsky, Determined</div>
   <svg width="1080" height="1920" style="pointer-events:none" aria-hidden="true"><rect width="1080" height="1920" filter="url(#paper)"/></svg>
 </div>

diff --git a/story/past-you/variants/night.html b/story/past-you/variants/night.html
@@ -11,10 +11,11 @@
   .story { position: relative; width: 1080px; height: 1920px; overflow: hidden; background: #1f2655; color: #ffb48a;
            font-family: "DM Sans", sans-serif; font-weight: 700; letter-spacing: -0.045em; text-align: center; }
   .story svg { position: absolute; inset: 0; }
-  .line { position: absolute; left: 0; right: 0; font-size: 58px; line-height: 1.04; }
-  .top { top: 300px; }
-  .bottom { top: 1460px; }
-  .label { position: absolute; left: 0; right: 0; top: 1680px; font-size: 30px; letter-spacing: -0.04em; text-transform: uppercase; }
+  /* composition: one centred column, ~112px side margins, even gaps */
+  .line { position: absolute; left: 0; right: 0; }
+  .top { top: 326px; font-size: 64px; line-height: 1.04; }                 /* the hook: largest */
+  .bottom { top: 1410px; font-size: 50px; line-height: 1.1; }             /* the explanation */
+  .label { position: absolute; left: 0; right: 0; top: 1618px; font-size: 28px; letter-spacing: -0.04em; text-transform: uppercase; }
 </style>
 </head>
 <body>
@@ -54,6 +55,7 @@
         <feMerge><feMergeNode in="blotSoft"/><feMergeNode in="darkSpecks"/></feMerge>
       </filter>
     </defs>
+    <g transform="translate(540 934) scale(0.88) translate(-540 -934)">
     <g transform="rotate(-5 545 940)">
 <clipPath id="night-c0"><path d="M300.5,933.3 Q300.5,933.3 308.2,933.1 Q315.9,932.9 323.9,932.7 Q332.0,932.5 338.6,932.2 Q345.3,931.9 353.1,931.4 Q360.8,931.0 367.7,930.8 Q374.6,930.5 382.6,929.2 Q390.5,927.9 398.0,927.8 Q405.4,927.6 412.4,927.1 Q419.5,926.7 427.3,925.5 Q435.1,924.2 443.0,923.0 Q450.9,921.8 459.7,921.7 Q468.6,921.6 476.4,920.7 Q484.1,919.9 492.3,920.2 Q500.4,920.6 509.1,921.3 Q517.7,922.0 525.9,922.5 Q534.0,923.0 543.1,923.5 Q552.1,924.0 561.0,924.9 Q570.0,925.9 577.9,926.1 Q585.9,926.2 593.5,926.0 Q601.2,925.8 608.8,926.4 Q616.5,927.0 625.4,926.6 Q634.4,926.3 642.6,925.8 Q650.8,925.4 660.1,925.8 Q669.5,926.1 678.2,926.6 Q686.9,927.1 694.0,927.0 Q701.1,927.0 709.7,927.5 Q718.2,928.1 727.3,928.1 Q736.3,928.1 744.4,927.6 Q752.5,927.0 760.8,927.0 Q769.1,927.0 776.1,926.9 Q783.1,926.8 790.0,927.3 Q796.8,927.8 801.6,922.3 Q806.5,916.9 810.8,911.3 Q815.2,905.7 819.2,898.4 Q823.3,891.0 827.8,882.3 Q832.4,873.7 837.2,866.2 Q841.9,858.6 846.3,850.6 Q850.6,842.5 843.2,843.0 Q835.8,843.4 827.2,843.1 Q818.7,842.9 810.6,842.8 Q802.6,842.7 794.4,842.5 Q786.2,842.4 777.8,843.2 Q769.4,844.1 760.2,844.5 Q751.0,844.8 743.1,845.2 Q735.2,845.6 726.8,846.6 Q718.3,847.6 710.7,847.9 Q703.0,848.2 694.9,849.8 Q686.8,851.5 680.6,851.7 Q674.3,852.0 667.1,853.0 Q659.9,854.0 650.8,853.7 Q641.8,853.5 634.1,853.6 Q626.4,853.6 619.2,853.6 Q612.0,853.6 605.3,852.7 Q598.6,851.8 590.3,852.0 Q582.0,852.3 575.4,851.4 Q568.9,850.6 560.5,850.5 Q552.2,850.5 543.8,851.6 Q535.5,852.8 526.4,854.6 Q517.3,856.4 509.5,856.4 Q501.7,856.5 494.1,857.4 Q486.4,858.3 477.0,858.7 Q467.5,859.0 459.3,859.5 Q451.1,860.0 444.2,860.7 Q437.3,861.4 429.9,861.9 Q422.6,862.5 414.7,862.2 Q406.7,862.0 399.3,863.1 Q391.9,864.2 383.6,864.3 Q375.3,864.5 375.3,864.5 L375.3,864.5Z"/></clipPath>
 <g clip-path="url(#night-c0)"><path d="M340.2,527.7 L960.8,663.6 L949.2,667.7 L335.2,537.3 L319.8,542.1 L935.1,674.8 L918.9,683.9 L361.6,564.8 L323.7,558.7 L909.8,690.9 L951.3,711.7 L343.0,577.0 L356.6,587.5 L941.9,718.8 L935.4,724.7 L344.1,600.4 L302.3,596.6 L948.9,732.9 L921.1,737.7 L292.9,602.3 L311.7,617.4 L895.7,747.1 L915.0,757.4 L308.8,630.6 L291.7,638.6 L925.5,771.8 L921.3,787.7 L335.0,656.8 L338.3,670.7 L889.4,786.6 L934.4,800.2 L288.2,668.4 L296.2,672.6 L926.1,812.4 L934.2,844.9 L300.0,711.3 L313.9,724.6 L906.6,851.4 L875.7,862.9 L308.1,736.2 L306.2,748.0 L868.6,876.0 L876.9,878.9 L294.3,759.2 L268.1,766.6 L909.5,899.1 L866.8,900.6 L301.0,783.8 L296.9,787.5 L915.2,925.9 L865.7,919.2 L269.3,795.5 L299.5,812.7 L886.5,935.6 L903.3,958.1 L263.0,816.4 L291.4,832.9 L878.6,957.3 L853.2,966.2 L276.9,838.8 L297.5,852.6 L878.2,976.9 L846.0,986.9 L243.4,855.5 L292.7,874.8 L857.2,1000.3 L886.5,1014.1 L269.9,884.7 L278.8,900.2 L882.4,1030.2 L881.7,1041.8 L282.2,914.9 L236.5,914.5 L845.4,1045.1 L847.0,1084.4 L266.6,964.6 L227.5,965.0 L851.1,1102.4 L868.2,1108.6 L273.8,981.6 L237.1,985.8 L878.9,1121.5 L860.5,1129.6 L228.1,997.5 L262.8,1017.0 L828.3,1131.5 L845.3,1158.7 L228.4,1021.6 L254.5,1036.9 L862.5,1167.3 L828.3,1188.8 L207.9,1055.9 L199.2,1072.0 L836.2,1207.3 L801.5,1204.9 L234.9,1087.6 L196.3,1083.0 L818.4,1218.4 L803.3,1226.9 L232.7,1105.5 L229.9,1111.3 L816.5,1239.1 L839.7,1253.4 L237.7,1125.7" fill="none" stroke="#0d1130" stroke-width="10" stroke-linejoin="round" opacity="0.92" filter="url(#wax)"/></g>
@@ -170,8 +172,9 @@
 <path d="M545.2,1322.7 Q545.4,1325.3 546.2,1333.9 Q546.9,1342.4 547.7,1351.2 Q548.5,1359.9 549.7,1368.7 Q550.8,1377.5 550.9,1377.9 L550.9,1378.2" fill="none" stroke="#ffb48a" stroke-width="4.4" stroke-linecap="round" stroke-linejoin="round" opacity="1" filter="url(#crayon)"/>
 <path d="M568.1,1334.0 Q566.2,1335.8 560.3,1341.3 Q554.4,1346.8 548.5,1352.3 Q542.6,1357.8 536.5,1363.2 Q530.4,1368.6 529.5,1369.4 L528.5,1370.3" fill="none" stroke="#ffb48a" stroke-width="3.6" stroke-linecap="round" stroke-linejoin="round" opacity="1" filter="url(#crayon)"/>
     </g>
+    </g>
   </svg>
-  <div class="line bottom">Past you could only draw<br>with the crayons they were given.</div>
+  <div class="line bottom">Past you could only draw with<br>the crayons they were given.</div>
   <div class="label">After Robert Sapolsky, Determined</div>
   <svg width="1080" height="1920" style="pointer-events:none" aria-hidden="true"><rect width="1080" height="1920" filter="url(#paper)"/></svg>
 </div>

diff --git a/story/past-you/variants/paper.html b/story/past-you/variants/paper.html
@@ -11,10 +11,11 @@
   .story { position: relative; width: 1080px; height: 1920px; overflow: hidden; background: #ece3cf; color: #2c3a8f;
            font-family: "DM Sans", sans-serif; font-weight: 700; letter-spacing: -0.045em; text-align: center; }
   .story svg { position: absolute; inset: 0; }
-  .line { position: absolute; left: 0; right: 0; font-size: 58px; line-height: 1.04; }
-  .top { top: 300px; }
-  .bottom { top: 1460px; }
-  .label { position: absolute; left: 0; right: 0; top: 1680px; font-size: 30px; letter-spacing: -0.04em; text-transform: uppercase; }
+  /* composition: one centred column, ~112px side margins, even gaps */
+  .line { position: absolute; left: 0; right: 0; }
+  .top { top: 326px; font-size: 64px; line-height: 1.04; }                 /* the hook: largest */
+  .bottom { top: 1410px; font-size: 50px; line-height: 1.1; }             /* the explanation */
+  .label { position: absolute; left: 0; right: 0; top: 1618px; font-size: 28px; letter-spacing: -0.04em; text-transform: uppercase; }
 </style>
 </head>
 <body>
@@ -54,6 +55,7 @@
         <feMerge><feMergeNode in="blotSoft"/><feMergeNode in="darkSpecks"/></feMerge>
       </filter>
     </defs>
+    <g transform="translate(540 934) scale(0.88) translate(-540 -934)">
     <g transform="rotate(-5 545 940)">
 <clipPath id="paper-c0"><path d="M300.5,933.3 Q300.5,933.3 308.2,933.1 Q315.9,932.9 323.9,932.7 Q332.0,932.5 338.6,932.2 Q345.3,931.9 353.1,931.4 Q360.8,931.0 367.7,930.8 Q374.6,930.5 382.6,929.2 Q390.5,927.9 398.0,927.8 Q405.4,927.6 412.4,927.1 Q419.5,926.7 427.3,925.5 Q435.1,924.2 443.0,923.0 Q450.9,921.8 459.7,921.7 Q468.6,921.6 476.4,920.7 Q484.1,919.9 492.3,920.2 Q500.4,920.6 509.1,921.3 Q517.7,922.0 525.9,922.5 Q534.0,923.0 543.1,923.5 Q552.1,924.0 561.0,924.9 Q570.0,925.9 577.9,926.1 Q585.9,926.2 593.5,926.0 Q601.2,925.8 608.8,926.4 Q616.5,927.0 625.4,926.6 Q634.4,926.3 642.6,925.8 Q650.8,925.4 660.1,925.8 Q669.5,926.1 678.2,926.6 Q686.9,927.1 694.0,927.0 Q701.1,927.0 709.7,927.5 Q718.2,928.1 727.3,928.1 Q736.3,928.1 744.4,927.6 Q752.5,927.0 760.8,927.0 Q769.1,927.0 776.1,926.9 Q783.1,926.8 790.0,927.3 Q796.8,927.8 801.6,922.3 Q806.5,916.9 810.8,911.3 Q815.2,905.7 819.2,898.4 Q823.3,891.0 827.8,882.3 Q832.4,873.7 837.2,866.2 Q841.9,858.6 846.3,850.6 Q850.6,842.5 843.2,843.0 Q835.8,843.4 827.2,843.1 Q818.7,842.9 810.6,842.8 Q802.6,842.7 794.4,842.5 Q786.2,842.4 777.8,843.2 Q769.4,844.1 760.2,844.5 Q751.0,844.8 743.1,845.2 Q735.2,845.6 726.8,846.6 Q718.3,847.6 710.7,847.9 Q703.0,848.2 694.9,849.8 Q686.8,851.5 680.6,851.7 Q674.3,852.0 667.1,853.0 Q659.9,854.0 650.8,853.7 Q641.8,853.5 634.1,853.6 Q626.4,853.6 619.2,853.6 Q612.0,853.6 605.3,852.7 Q598.6,851.8 590.3,852.0 Q582.0,852.3 575.4,851.4 Q568.9,850.6 560.5,850.5 Q552.2,850.5 543.8,851.6 Q535.5,852.8 526.4,854.6 Q517.3,856.4 509.5,856.4 Q501.7,856.5 494.1,857.4 Q486.4,858.3 477.0,858.7 Q467.5,859.0 459.3,859.5 Q451.1,860.0 444.2,860.7 Q437.3,861.4 429.9,861.9 Q422.6,862.5 414.7,862.2 Q406.7,862.0 399.3,863.1 Q391.9,864.2 383.6,864.3 Q375.3,864.5 375.3,864.5 L375.3,864.5Z"/></clipPath>
 <g clip-path="url(#paper-c0)"><path d="M340.2,527.7 L960.8,663.6 L949.2,667.7 L335.2,537.3 L319.8,542.1 L935.1,674.8 L918.9,683.9 L361.6,564.8 L323.7,558.7 L909.8,690.9 L951.3,711.7 L343.0,577.0 L356.6,587.5 L941.9,718.8 L935.4,724.7 L344.1,600.4 L302.3,596.6 L948.9,732.9 L921.1,737.7 L292.9,602.3 L311.7,617.4 L895.7,747.1 L915.0,757.4 L308.8,630.6 L291.7,638.6 L925.5,771.8 L921.3,787.7 L335.0,656.8 L338.3,670.7 L889.4,786.6 L934.4,800.2 L288.2,668.4 L296.2,672.6 L926.1,812.4 L934.2,844.9 L300.0,711.3 L313.9,724.6 L906.6,851.4 L875.7,862.9 L308.1,736.2 L306.2,748.0 L868.6,876.0 L876.9,878.9 L294.3,759.2 L268.1,766.6 L909.5,899.1 L866.8,900.6 L301.0,783.8 L296.9,787.5 L915.2,925.9 L865.7,919.2 L269.3,795.5 L299.5,812.7 L886.5,935.6 L903.3,958.1 L263.0,816.4 L291.4,832.9 L878.6,957.3 L853.2,966.2 L276.9,838.8 L297.5,852.6 L878.2,976.9 L846.0,986.9 L243.4,855.5 L292.7,874.8 L857.2,1000.3 L886.5,1014.1 L269.9,884.7 L278.8,900.2 L882.4,1030.2 L881.7,1041.8 L282.2,914.9 L236.5,914.5 L845.4,1045.1 L847.0,1084.4 L266.6,964.6 L227.5,965.0 L851.1,1102.4 L868.2,1108.6 L273.8,981.6 L237.1,985.8 L878.9,1121.5 L860.5,1129.6 L228.1,997.5 L262.8,1017.0 L828.3,1131.5 L845.3,1158.7 L228.4,1021.6 L254.5,1036.9 L862.5,1167.3 L828.3,1188.8 L207.9,1055.9 L199.2,1072.0 L836.2,1207.3 L801.5,1204.9 L234.9,1087.6 L196.3,1083.0 L818.4,1218.4 L803.3,1226.9 L232.7,1105.5 L229.9,1111.3 L816.5,1239.1 L839.7,1253.4 L237.7,1125.7" fill="none" stroke="#3a3150" stroke-width="10" stroke-linejoin="round" opacity="0.92" filter="url(#wax)"/></g>
@@ -170,8 +172,9 @@
 <path d="M545.2,1322.7 Q545.4,1325.3 546.2,1333.9 Q546.9,1342.4 547.7,1351.2 Q548.5,1359.9 549.7,1368.7 Q550.8,1377.5 550.9,1377.9 L550.9,1378.2" fill="none" stroke="#2f7fd8" stroke-width="4.4" stroke-linecap="round" stroke-linejoin="round" opacity="1" filter="url(#crayon)"/>
 <path d="M568.1,1334.0 Q566.2,1335.8 560.3,1341.3 Q554.4,1346.8 548.5,1352.3 Q542.6,1357.8 536.5,1363.2 Q530.4,1368.6 529.5,1369.4 L528.5,1370.3" fill="none" stroke="#2f7fd8" stroke-width="3.6" stroke-linecap="round" stroke-linejoin="round" opacity="1" filter="url(#crayon)"/>
     </g>
+    </g>
   </svg>
-  <div class="line bottom">Past you could only draw<br>with the crayons they were given.</div>
+  <div class="line bottom">Past you could only draw with<br>the crayons they were given.</div>
   <div class="label">After Robert Sapolsky, Determined</div>
   <svg width="1080" height="1920" style="pointer-events:none" aria-hidden="true"><rect width="1080" height="1920" filter="url(#paper)"/></svg>
 </div>

diff --git a/story/past-you/build.js b/story/past-you/build.js
@@ -270,10 +270,11 @@ function build(themeName) {
   .story { position: relative; width: 1080px; height: 1920px; overflow: hidden; background: ${T.bg}; color: ${T.text};
            font-family: "DM Sans", sans-serif; font-weight: 700; letter-spacing: -0.045em; text-align: center; }
   .story svg { position: absolute; inset: 0; }
-  .line { position: absolute; left: 0; right: 0; font-size: 58px; line-height: 1.04; }
-  .top { top: 300px; }
-  .bottom { top: 1460px; }
-  .label { position: absolute; left: 0; right: 0; top: 1680px; font-size: 30px; letter-spacing: -0.04em; text-transform: uppercase; }
+  /* composition: one centred column, ~112px side margins, even gaps */
+  .line { position: absolute; left: 0; right: 0; }
+  .top { top: 326px; font-size: 64px; line-height: 1.04; }                 /* the hook: largest */
+  .bottom { top: 1410px; font-size: 50px; line-height: 1.1; }             /* the explanation */
+  .label { position: absolute; left: 0; right: 0; top: 1618px; font-size: 28px; letter-spacing: -0.04em; text-transform: uppercase; }
 </style>
 </head>
 <body>
@@ -313,11 +314,13 @@ function build(themeName) {
         <feMerge><feMergeNode in="blotSoft"/><feMergeNode in="darkSpecks"/></feMerge>
       </filter>
     </defs>
+    <g transform="translate(540 934) scale(0.88) translate(-540 -934)">
     <g transform="rotate(-5 545 940)">
 ${out.join('\n')}
     </g>
+    </g>
   </svg>
-  <div class="line bottom">Past you could only draw<br>with the crayons they were given.</div>
+  <div class="line bottom">Past you could only draw with<br>the crayons they were given.</div>
   <div class="label">After Robert Sapolsky, Determined</div>
   <svg width="1080" height="1920" style="pointer-events:none" aria-hidden="true"><rect width="1080" height="1920" filter="url(#paper)"/></svg>
 </div>
